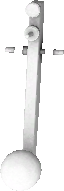
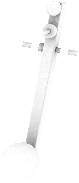
Updated sprites

diff --git a/src/game/construction/scene/comms_desk_scene/entity/journal_entity.cpp b/src/game/construction/scene/comms_desk_scene/entity/journal_entity.cpp
@@ -1,0 +1,38 @@
+#include "game/construction/scene/comms_desk_scene/entity/journal_entity.hpp"
+
+#include "raylib.h"
+#include "core/data/vector2.hpp"
+#include "core/runtime/resource_store.hpp"
+#include "entt/entity/fwd.hpp"
+#include "entt/entity/registry.hpp"
+#include "game/component/core/transform_component.hpp"
+#include "game/component/core/interactive/drag_action_component.hpp"
+#include "game/component/core/rendering/sprite_component.hpp"
+#include "game/component/scene/comms_desk_scene/journal_component.hpp"
+#include "game/contexts/scene_context.hpp"
+#include "game/state/scene.hpp"
+
+
+entt::entity Entity::Journal::Create(const SceneContext& context) noexcept
+{
+	constexpr char NOTE_ALBEDO_PATH[] = "assets/environment/objects/note/page_n.png";
+    constexpr char NOTE_NORMAL_PATH[] = "assets/environment/objects/note/journal_normal.png";
+    constexpr char NOTE_AO_PATH[] = "assets/environment/objects/note/journal_ao.png";
+	constexpr auto POSITION = Nc::Vector2f(695.0f, 520.0f);
+
+	const entt::entity entity = context.registry.create();
+
+	context.registry.emplace<Component::Journal>(entity);
+    context.registry.emplace<Component::Action::Drag>(entity);
+	
+	const Texture2D& noteAlbedoTexture = context.store.GetTexture(NOTE_ALBEDO_PATH);
+    const Texture2D& noteNormalTexture = context.store.GetTexture(NOTE_NORMAL_PATH);
+    const Texture2D& noteAoTexture = context.store.GetTexture(NOTE_AO_PATH);
+
+	context.registry.emplace<Component::Sprite>(entity, noteAlbedoTexture, noteNormalTexture, noteAoTexture);
+
+	auto size = Nc::Vector2f(noteAlbedoTexture.width, noteAlbedoTexture.height);
+	context.registry.emplace<Component::Transform>(entity, CommsDesk, POSITION, size, size * 0.5f, 1, 3.0f);
+
+	return entity;
+}

diff --git a/src/game/system/scene/comms_desk_scene/journal/journal_page_system.cpp b/src/game/system/scene/comms_desk_scene/journal/journal_page_system.cpp
@@ -1,0 +1,45 @@
+#include "game/system/scene/comms_desk_scene/journal/journal_page_system.hpp"
+#include <format>
+#include "core/runtime/entity_helpers.hpp"
+#include "core/runtime/resource_store.hpp"
+#include "entt/entity/entity.hpp"
+#include "game/component/core/rendering/sprite_component.hpp"
+#include "game/component/scene/comms_desk_scene/journal_component.hpp"
+#include "game/contexts/system_context.hpp"
+#include "game/state/game_state.hpp"
+#include "game/system/core/audio/audio_emitter_system.hpp"
+
+
+void System::JournalPage::Update(const SystemContext& context) noexcept
+{
+    const entt::entity entity = entt::get_single<Component::Journal>(context.registry);
+    auto& sprite = context.registry.get<Component::Sprite>(entity);
+    const auto& journal = context.registry.get<Component::Journal>(entity);
+
+    const Component::Journal::Page page = journal.pages.at(journal.index);
+    const std::string path = PAGE_DIRECTORY + GetPagePath(page, journal.index);
+
+    const Texture2D& pageAlbedoTexture = context.store.GetTexture(path);
+    sprite.albedo = pageAlbedoTexture;
+}
+
+
+void System::JournalPage::OnDayChange(const SystemContext& context) noexcept
+{
+
+}
+
+
+std::string System::JournalPage::GetPagePath(const Component::Journal::Page page, uint8_t index) noexcept
+{
+    switch (page.type)
+    {
+    case Component::Journal::Page::NotFound:
+        break;
+    case Component::Journal::Page::Found:
+        return std::format("page_{}.png", index);
+    case Component::Journal::Page::Partial:
+        return std::format("page_{}_p.png", index);
+    }
+    return "page_n.png";
+}

diff --git a/src/game/system/scene/comms_desk_scene/journal/journal_turn_system.cpp b/src/game/system/scene/comms_desk_scene/journal/journal_turn_system.cpp
@@ -1,0 +1,34 @@
+#include "game/system/scene/comms_desk_scene/journal/journal_turn_system.hpp"
+#include "core/math/nc_math.hpp"
+#include "core/runtime/entity_helpers.hpp"
+#include "entt/entity/registry.hpp"
+#include "game/component/core/interactive/drag_action_component.hpp"
+#include "game/component/scene/comms_desk_scene/journal_component.hpp"
+#include "game/contexts/system_context.hpp"
+#include "game/system/scene/comms_desk_scene/journal/journal_page_system.hpp"
+
+
+void System::JournalTurn::Update(const SystemContext& context) noexcept
+{
+    constexpr auto TURN_THRESHOLD = 20.0f;
+    constexpr auto MAX_INDEX = static_cast<int>(Component::Journal::MAX_PAGES) - 1;
+
+    const entt::entity entity = entt::get_single<Component::Journal>(context.registry);
+    auto& journal = context.registry.get<Component::Journal>(entity);
+    const auto& drag = context.registry.get<Component::Action::Drag>(entity);
+
+    if (!drag.isTarget)
+    {
+        journal.pageTurned = false;
+        return;
+    }
+    if (journal.pageTurned) return;
+    if (std::fabsf(drag.draggedDelta.x) < TURN_THRESHOLD) return;
+
+    journal.pageTurned = true;
+    JournalPage::Update(context);
+
+    const int sign = drag.draggedDelta.x > Nc::Math::EPSILON ? 1 : -1;
+    const int nextPage = std::clamp(journal.index + sign, 0, MAX_INDEX);
+    journal.index = nextPage;
+}

diff --git a/src/game/construction/scene/comms_scene/object/radar_object.cpp b/src/game/construction/scene/comms_scene/object/radar_object.cpp
@@ -177,7 +177,7 @@ entt::entity Object::Radar::PowerButton::Create(const SceneContext& context) noe
     constexpr char BUTTON_ALBEDO_PATH[] = "assets/environment/objects/radar/crt_power_button_albedo.png";
     constexpr char BUTTON_NORMAL_PATH[] = "assets/environment/objects/radar/crt_power_button_normal.png";
     constexpr char BUTTON_AO_PATH[] = "assets/environment/objects/radar/crt_power_button_ao.png";
-    constexpr auto POSITION = Nc::Vector2f(401.0f, 435.0f);
+    constexpr auto POSITION = Nc::Vector2f(375.0f, 479.0f);
 
 	const entt::entity entity = context.registry.create();
 
@@ -201,7 +201,7 @@ entt::entity Object::Radar::Screen::Create(const SceneContext& context) noexcept
     constexpr char SCREEN_ALBEDO_PATH[] = "assets/environment/objects/radar/radar_crt_screen_albedo.png";
     constexpr char SCREEN_NORMAL_PATH[] = "assets/environment/objects/radar/radar_crt_screen_normal.png";
     constexpr char SCREEN_AO_PATH[] = "assets/environment/objects/radar/radar_crt_screen_ao.png";
-    constexpr auto POSITION = Nc::Vector2f(589.0f, 269.0f);
+    constexpr auto POSITION = Nc::Vector2f(560.0f, 311.0f);
 
     const entt::entity entity = context.registry.create();
 

diff --git a/src/game/construction/scene/comms_scene/comms_scene.cpp b/src/game/construction/scene/comms_scene/comms_scene.cpp
@@ -5,6 +5,7 @@
 #include "core/data/vector2.hpp"
 #include "core/math/vector_math.hpp"
 #include "core/runtime/render_context.hpp"
+#include "entt/entity/registry.hpp"
 #include "game/construction/scene/comms_desk_scene/entity/morse_transceiver_entity.hpp"
 #include "game/construction/scene/comms_desk_scene/object/morse_monitor_object.hpp"
 #include "game/construction/scene/comms_scene/entity/radio_entity.hpp"
@@ -28,8 +29,8 @@ void Structure::CommsScene::Build(const BuildContext& context) noexcept
         Nc::Vector2f(0.6f, 1.4f),
         Nc::Vector2f(Nc::RENDER_RESOLUTION)
     );
-    constexpr float LIGHT_DISTANCE = 280.0f;
-    constexpr float LIGHT_RADIUS = 1440.0f;
+    constexpr float LIGHT_DISTANCE = 440.0f;
+    constexpr float LIGHT_RADIUS = 1720.0f;
 
     const auto sceneContext = SceneContext(context.registry, context.store, context.game);
 
@@ -58,7 +59,7 @@ void Structure::CommsScene::Build(const BuildContext& context) noexcept
         LIGHT_POSITION,
         LIGHT_DISTANCE,
         Nc::RGBa(LIGHT_COLOR),
-        1.9f,
+        1.6f,
         LIGHT_RADIUS
     );
 

diff --git a/src/game/construction/scene/comms_desk_scene/comms_desk_scene.cpp b/src/game/construction/scene/comms_desk_scene/comms_desk_scene.cpp
@@ -7,7 +7,7 @@
 #include "core/runtime/render_context.hpp"
 #include "core/runtime/resource_store.hpp"
 #include "entt/entity/fwd.hpp"
-#include "game/construction/scene/comms_desk_scene/entity/note_entity.hpp"
+#include "game/construction/scene/comms_desk_scene/entity/journal_entity.hpp"
 #include "game/construction/shared/entity/environment/light_source_entity.hpp"
 #include "game/construction/shared/entity/scene/move_region_entity.hpp"
 #include "game/construction/shared/entity/scene/scene_background_entity.hpp"
@@ -32,7 +32,7 @@ void Structure::DeskScene::Build(const BuildContext& context) noexcept
 
     const SceneContext sceneContext = SceneContext(context.registry, context.store, context.game);
 
-    Entity::Note::Create(sceneContext);
+    Entity::Journal::Create(sceneContext);
 
     const Texture2D& sceneAlbedoTexture = context.store.GetTexture(SCENE_ALBEDO_PATH);
     const Texture2D& sceneNormalTexture = context.store.GetTexture(SCENE_NORMAL_PATH);

diff --git a/src/game/construction/scene/comms_desk_scene/object/morse_monitor_object.cpp b/src/game/construction/scene/comms_desk_scene/object/morse_monitor_object.cpp
@@ -13,8 +13,8 @@
 
 void Object::MorseMonitor::Create(const SceneContext& context) noexcept
 {
-    constexpr auto POSITION = Nc::Vector2f(284.0f, 135.0f);
-    constexpr auto OFFSET = Nc::Vector2f(25.0f, 68.0f);
+    constexpr auto POSITION = Nc::Vector2f(296.0f, 141.0f);
+    constexpr auto OFFSET = Nc::Vector2f(25.0f, 62.0f);
     constexpr char GAUGE_ALBEDO_PATH[] = "assets/environment/objects/morse_transmitter/morse_timing_knob/morse_transmission_gauge_albedo.png";
     constexpr char GAUGE_NORMAL_PATH[] = "assets/environment/objects/morse_transmitter/morse_timing_knob/morse_transmission_gauge_normal.png";
     constexpr char GAUGE_AO_PATH[] = "assets/environment/objects/morse_transmitter/morse_timing_knob/morse_transmission_gauge_ao.png";

diff --git a/include/game/component/scene/comms_desk_scene/journal_component.hpp b/include/game/component/scene/comms_desk_scene/journal_component.hpp
@@ -1,0 +1,44 @@
+#pragma once
+#include <array>
+#include <cstdint>
+
+
+namespace Component
+{
+
+struct Journal final
+{
+    // ------ Types ------
+
+    struct Page final
+    {
+        enum PageType : uint8_t
+        {
+            NotFound, Found, Partial
+        };
+
+        PageType type = NotFound;
+
+        Page() = default;
+        explicit Page(const PageType type) : type(type) {}
+    };
+
+
+	// ------ Members ------
+
+    static constexpr uint8_t MAX_PAGES = 5;
+
+    std::array<Page, MAX_PAGES> pages{ };
+	uint8_t index = 0;
+    bool pageTurned = false;
+
+
+    // ------ Constructors ------
+
+    Journal() = default;
+    explicit Journal(const uint8_t index) : index(index) {}
+};
+
+}
+
+

diff --git a/include/game/system/scene/comms_desk_scene/journal/journal_page_system.hpp b/include/game/system/scene/comms_desk_scene/journal/journal_page_system.hpp
@@ -1,0 +1,32 @@
+#pragma once
+#include <string>
+
+#include "game/component/scene/comms_desk_scene/journal_component.hpp"
+#include "game/system/core/audio/audio_emitter_system.hpp"
+struct SystemContext;
+
+
+namespace System
+{
+
+class JournalPage final
+{
+public:
+    // ------ Members ------
+
+    static constexpr char PAGE_DIRECTORY[] = "assets/environment/objects/note/";
+
+
+    // ------ Functions ------
+
+    static void Update(const SystemContext& context) noexcept;
+    static void OnDayChange(const SystemContext& context) noexcept;
+
+private:
+    // ------ Functions ------
+
+    static std::string GetPagePath(Component::Journal::Page page, uint8_t index) noexcept;
+
+};
+
+}

diff --git a/src/game/construction/shared/entity/scene/move_region_entity.cpp b/src/game/construction/shared/entity/scene/move_region_entity.cpp
@@ -36,7 +36,7 @@ entt::entity Entity::MoveRegion::Create(
 ) noexcept
 {
 	constexpr Nc::Vector2f displaySize = Nc::Vector2f(Nc::RENDER_RESOLUTION);
-	constexpr float WIDTH_MULTIPLIER = 0.1f, HEIGHT_MULTIPLIER = 0.2f;
+	constexpr float WIDTH_MULTIPLIER = 0.08f, HEIGHT_MULTIPLIER = 0.14f;
 
 	auto transform = Component::Transform(currentScene);
 
@@ -79,7 +79,9 @@ entt::entity Entity::MoveRegion::Create(
 		transform.offset.x = regionSize.x;
 		break;
 	}
-	}
+	default:
+	    break;
+    }
 
 	return Create(context, transform, nextScene, moveTime);
 }

diff --git a/include/game/construction/scene/comms_desk_scene/entity/morse_transceiver_entity.hpp b/include/game/construction/scene/comms_desk_scene/entity/morse_transceiver_entity.hpp
@@ -12,8 +12,13 @@ namespace Entity
 class MorseTransceiver final
 {
 public:
-    static constexpr auto POSITION = Nc::Vector2f(139.0f, 551.0f);
-    static constexpr auto PUSHED_POSITION = Nc::Vector2f(144.0f, 552.0f) ;
+    // ------ Members ------
+
+    static constexpr auto POSITION = Nc::Vector2f(93.0f, 532.0f);
+    static constexpr auto PUSHED_POSITION = Nc::Vector2f(95.0f, 532.0f) ;
+
+
+    // ------ Functions ------
 
     static entt::entity Create(const SceneContext& context) noexcept;
 

diff --git a/include/game/state/game_state.hpp b/include/game/state/game_state.hpp
@@ -16,7 +16,7 @@ using Day = uint8_t;
 
 constexpr auto BUNKER_POSITION = Nc::Vector2f(-0.4f, -5.9f);
 constexpr auto ARTILLERY_POSITION = Nc::Vector2f(-60.8f, 31.8f);
-constexpr auto RADAR_POSITION = Nc::Vector2f(460.0f, 142.0f);
+constexpr auto RADAR_POSITION = Nc::Vector2f(436.0f, 192.0f);
 constexpr auto WORLD_BOUNDS = Nc::Bounds(-100.0f, 100.0f, 100.0f, -100.0f); // Y-axis is flipped.
 constexpr auto RADAR_BOUNDS = Nc::Bounds(0.0f, 0.0f, 255.0f, 255.0f);
 
